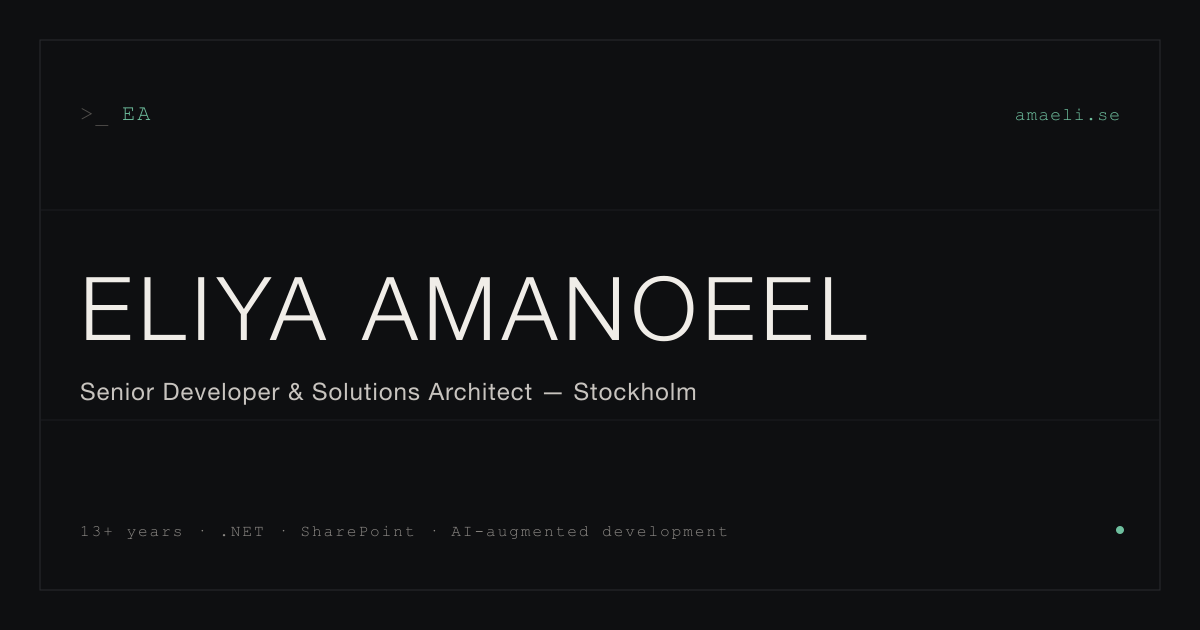
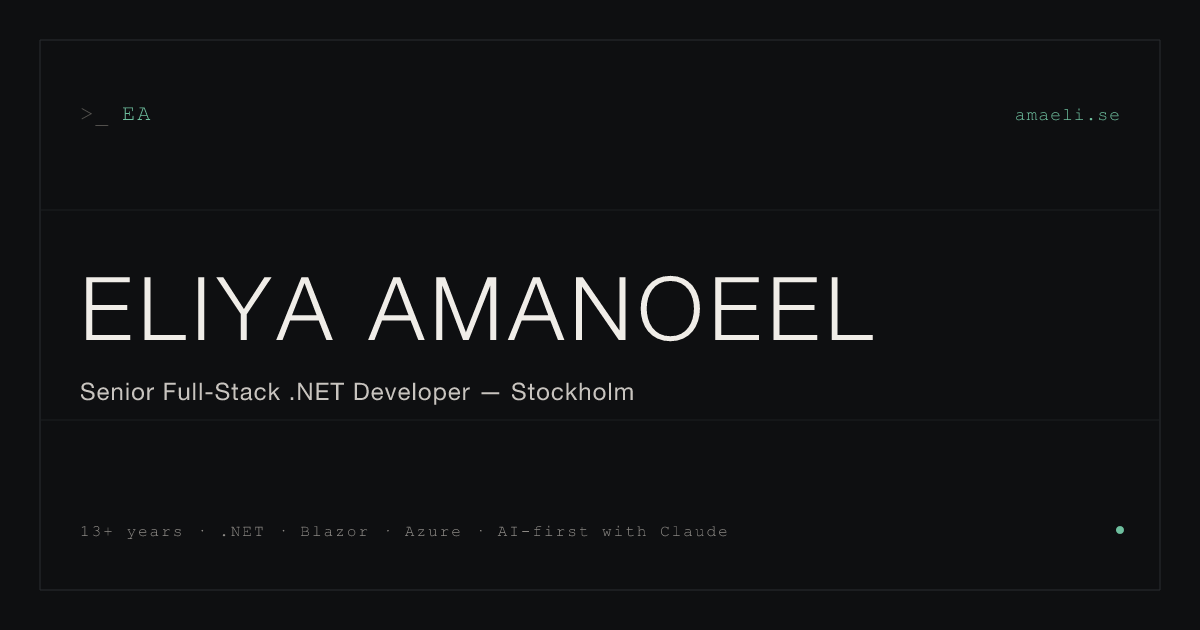
Unify project links and refresh the share image
- Personal projects use the same link line as Selected Work (shared
  LinkLine component); voltio gains its source link, titles are plain text
- Drop the "Live:" label; the LIVE badge already says it
- Hardware project states software ownership instead of "Full ownership"
- Share image carries the current title and focus
- "Source" label moves to a shared i18n key

Changed region(s): [[0.2158, 0.4222, 0.7092, 0.5429], [0.1233, 0.6032, 0.5858, 0.6333], [0.555, 0.8444, 0.5858, 0.8746]]

diff --git a/src/app/components/PersonalProjects.tsx b/src/app/components/PersonalProjects.tsx
@@ -1,12 +1,13 @@
 import { useState } from "react";
 import { SectionLabel } from "./SectionLabel";
 import { TechTag } from "./TechTag";
+import { LinkLine, type EntryLink } from "./LinkLine";
 import { useT } from "../../context/LanguageContext";
 
 interface ProjectMeta {
   id: string;
   name: string;
-  url?: string;
+  links?: EntryLink[];
   statusColor: string;
   tags: string[];
 }
@@ -15,14 +16,17 @@ const projectsMeta: ProjectMeta[] = [
   {
     id: "marnarsay",
     name: "kor.marnarsay.se",
-    url: "https://kor.marnarsay.se",
+    links: [{ kind: "live", url: "https://kor.marnarsay.se" }],
     statusColor: "var(--app-accent)",
     tags: ["Blazor", "C#", ".NET", "Figma", "GitHub Copilot"],
   },
   {
     id: "voltio",
     name: "voltioel.se",
-    url: "https://voltioel.se",
+    links: [
+      { kind: "live", url: "https://voltioel.se" },
+      { kind: "source", url: "https://github.com/eliya-amanoeel/voltio" },
+    ],
     statusColor: "var(--app-accent)",
     tags: ["React", "Figma", "GitHub Copilot"],
   },
@@ -53,22 +57,9 @@ export function PersonalProjects() {
                   style={{ padding: "32px 16px", backgroundColor: hovered === project.id ? "var(--app-card-hover)" : "transparent", transition: "background-color 150ms ease", cursor: "default" }}
                 >
                   <div style={{ display: "flex", alignItems: "baseline", gap: "12px", marginBottom: "4px" }}>
-                    {project.url ? (
-                      <a
-                        href={project.url}
-                        target="_blank"
-                        rel="noopener noreferrer"
-                        style={{ fontFamily: "Inter, sans-serif", fontSize: "22px", fontWeight: 500, lineHeight: 1.3, color: "var(--app-fg)", textDecoration: "none", transition: "color 150ms ease" }}
-                        onMouseEnter={(e) => ((e.currentTarget as HTMLElement).style.color = "var(--app-blue)")}
-                        onMouseLeave={(e) => ((e.currentTarget as HTMLElement).style.color = "var(--app-fg)")}
-                      >
-                        {project.name} ↗
-                      </a>
-                    ) : (
-                      <span style={{ fontFamily: "Inter, sans-serif", fontSize: "22px", fontWeight: 500, lineHeight: 1.3, color: "var(--app-fg)" }}>
-                        {project.name}
-                      </span>
-                    )}
+                    <span style={{ fontFamily: "Inter, sans-serif", fontSize: "22px", fontWeight: 500, lineHeight: 1.3, color: "var(--app-fg)" }}>
+                      {project.name}
+                    </span>
                     <span style={{ fontFamily: "'JetBrains Mono', monospace", fontSize: "11px", color: project.statusColor, letterSpacing: "0.05em" }}>
                       {entry?.status}
                     </span>
@@ -79,6 +70,7 @@ export function PersonalProjects() {
                   <p style={{ fontFamily: "Inter, sans-serif", fontSize: "16px", fontWeight: 400, lineHeight: 1.7, color: "var(--app-muted)", maxWidth: "600px", margin: "0 0 20px 0" }}>
                     {entry?.description}
                   </p>
+                  {project.links && <LinkLine links={project.links} />}
                   <div style={{ display: "flex", flexWrap: "wrap", gap: "8px" }}>
                     {project.tags.map((tag) => (
                       <TechTag key={tag} label={tag} />

diff --git a/src/app/components/SelectedWork.tsx b/src/app/components/SelectedWork.tsx
@@ -1,6 +1,7 @@
 import { useState } from "react";
 import { SectionLabel } from "./SectionLabel";
 import { TechTag } from "./TechTag";
+import { LinkLine, type EntryLink } from "./LinkLine";
 import { useT } from "../../context/LanguageContext";
 
 interface WorkCard {
@@ -8,7 +9,7 @@ interface WorkCard {
   client: string;
   period: string;
   tags: string[];
-  links?: Array<{ kind: "live" | "source"; url: string }>;
+  links?: EntryLink[];
 }
 
 const work: WorkCard[] = [
@@ -76,26 +77,7 @@ export function SelectedWork() {
                   <p style={{ fontFamily: "Inter, sans-serif", fontSize: "16px", fontWeight: 400, lineHeight: 1.7, color: "var(--app-muted)", maxWidth: "600px", margin: "0 0 20px 0" }}>
                     {entry?.description}
                   </p>
-                  {card.links && (
-                    <p style={{ fontFamily: "'JetBrains Mono', monospace", fontSize: "13px", lineHeight: 1.5, color: "var(--app-muted)", margin: "0 0 20px 0" }}>
-                      {card.links.map((link, j) => (
-                        <span key={link.url}>
-                          {j > 0 && " · "}
-                          {t.selectedWork.linkLabels[link.kind]}:{" "}
-                          <a
-                            href={link.url}
-                            target="_blank"
-                            rel="noopener noreferrer"
-                            style={{ color: "var(--app-fg)", textDecoration: "none", transition: "color 150ms ease" }}
-                            onMouseEnter={(e) => ((e.currentTarget as HTMLElement).style.color = "var(--app-blue)")}
-                            onMouseLeave={(e) => ((e.currentTarget as HTMLElement).style.color = "var(--app-fg)")}
-                          >
-                            {link.url.replace(/^https?:\/\//, "")} ↗
-                          </a>
-                        </span>
-                      ))}
-                    </p>
-                  )}
+                  {card.links && <LinkLine links={card.links} />}
                   <div style={{ display: "flex", flexWrap: "wrap", gap: "8px" }}>
                     {card.tags.map((tag) => (
                       <TechTag key={tag} label={tag} />

diff --git a/src/i18n/sv.ts b/src/i18n/sv.ts
@@ -28,9 +28,11 @@ export const sv: Translations = {
     bio2: "Drygt 13 års .NET-utveckling på Microsofts plattform: interna plattformar, migrationslösningar och styrningsverktyg (governance), och på senare tid Blazor-applikationer i .NET 10 byggda AI-först med Claude. Jag arbetar tvärfunktionellt genom hela leveranskedjan, från arkitektur till release.",
     scroll: "scrolla",
   },
+  links: {
+    source: "Källkod",
+  },
   selectedWork: {
     sectionLabel: "UTVALDA PROJEKT",
-    linkLabels: { live: "Live", source: "Källkod" },
     entries: {
       "forsvarsmakten-inventeringsportalen": {
         role: "Ledande .NET-utvecklare",
@@ -110,6 +112,7 @@ export const sv: Translations = {
       },
       firmware: {
         status: "PÅGÅR",
+        ownership: "Ägarskap för mjukvaran — firmware · mobilapp · webbplats · hårdvara av min partner",
         description: "Ett projekt i produktfas inom outdoor och jakthundar — samutvecklat med en partner. Projektet omfattar specialanpassad hårdvara med firmware skriven i C++, parkopplad med en mobilapplikation. AI-modeller är centrala i utvecklingsprocessen, vilket gör att två personer effektivt kan arbeta tvärfunktionellt med både inbäddade system och mobilutveckling.",
       },
     },

diff --git a/src/i18n/en.ts b/src/i18n/en.ts
@@ -28,9 +28,11 @@ export const en: Translations = {
     bio2: "13+ years of .NET development on the Microsoft stack: internal platforms, migration solutions and governance tools, and most recently .NET 10 Blazor applications built AI-first with Claude. I work across the full delivery chain, from architecture to release.",
     scroll: "scroll",
   },
+  links: {
+    source: "Source",
+  },
   selectedWork: {
     sectionLabel: "SELECTED WORK",
-    linkLabels: { live: "Live", source: "Source" },
     entries: {
       "forsvarsmakten-inventeringsportalen": {
         role: "Lead .NET Developer",
@@ -137,6 +139,7 @@ export const en: Translations = {
       },
       firmware: {
         status: "IN PROGRESS",
+        ownership: "Software ownership — firmware · mobile app · website · hardware by my partner",
         description:
           "A product-stage venture in the field of outdoor sports and hunting dogs — co-developed with a partner. Involves custom hardware with firmware written in C++, paired with a companion mobile application. AI models are central to how this is being built, enabling two people to work effectively across embedded systems and mobile development.",
       },

diff --git a/src/app/components/LinkLine.tsx b/src/app/components/LinkLine.tsx
@@ -1,0 +1,31 @@
+import { useT } from "../../context/LanguageContext";
+
+export interface EntryLink {
+  kind: "live" | "source";
+  url: string;
+}
+
+export function LinkLine({ links }: { links: EntryLink[] }) {
+  const { t } = useT();
+
+  return (
+    <p style={{ fontFamily: "'JetBrains Mono', monospace", fontSize: "13px", lineHeight: 1.5, color: "var(--app-muted)", margin: "0 0 20px 0" }}>
+      {links.map((link, i) => (
+        <span key={link.url}>
+          {i > 0 && " · "}
+          {link.kind === "source" && `${t.links.source}: `}
+          <a
+            href={link.url}
+            target="_blank"
+            rel="noopener noreferrer"
+            style={{ color: "var(--app-fg)", textDecoration: "none", transition: "color 150ms ease" }}
+            onMouseEnter={(e) => ((e.currentTarget as HTMLElement).style.color = "var(--app-blue)")}
+            onMouseLeave={(e) => ((e.currentTarget as HTMLElement).style.color = "var(--app-fg)")}
+          >
+            {link.url.replace(/^https?:\/\//, "")} ↗
+          </a>
+        </span>
+      ))}
+    </p>
+  );
+}

diff --git a/src/i18n/types.ts b/src/i18n/types.ts
@@ -13,9 +13,11 @@ export type Translations = {
     bio2: string;
     scroll: string;
   };
+  links: {
+    source: string;
+  };
   selectedWork: {
     sectionLabel: string;
-    linkLabels: { live: string; source: string };
     entries: Record<string, { role: string; description: string; period?: string }>;
   };
   howIWork: {
